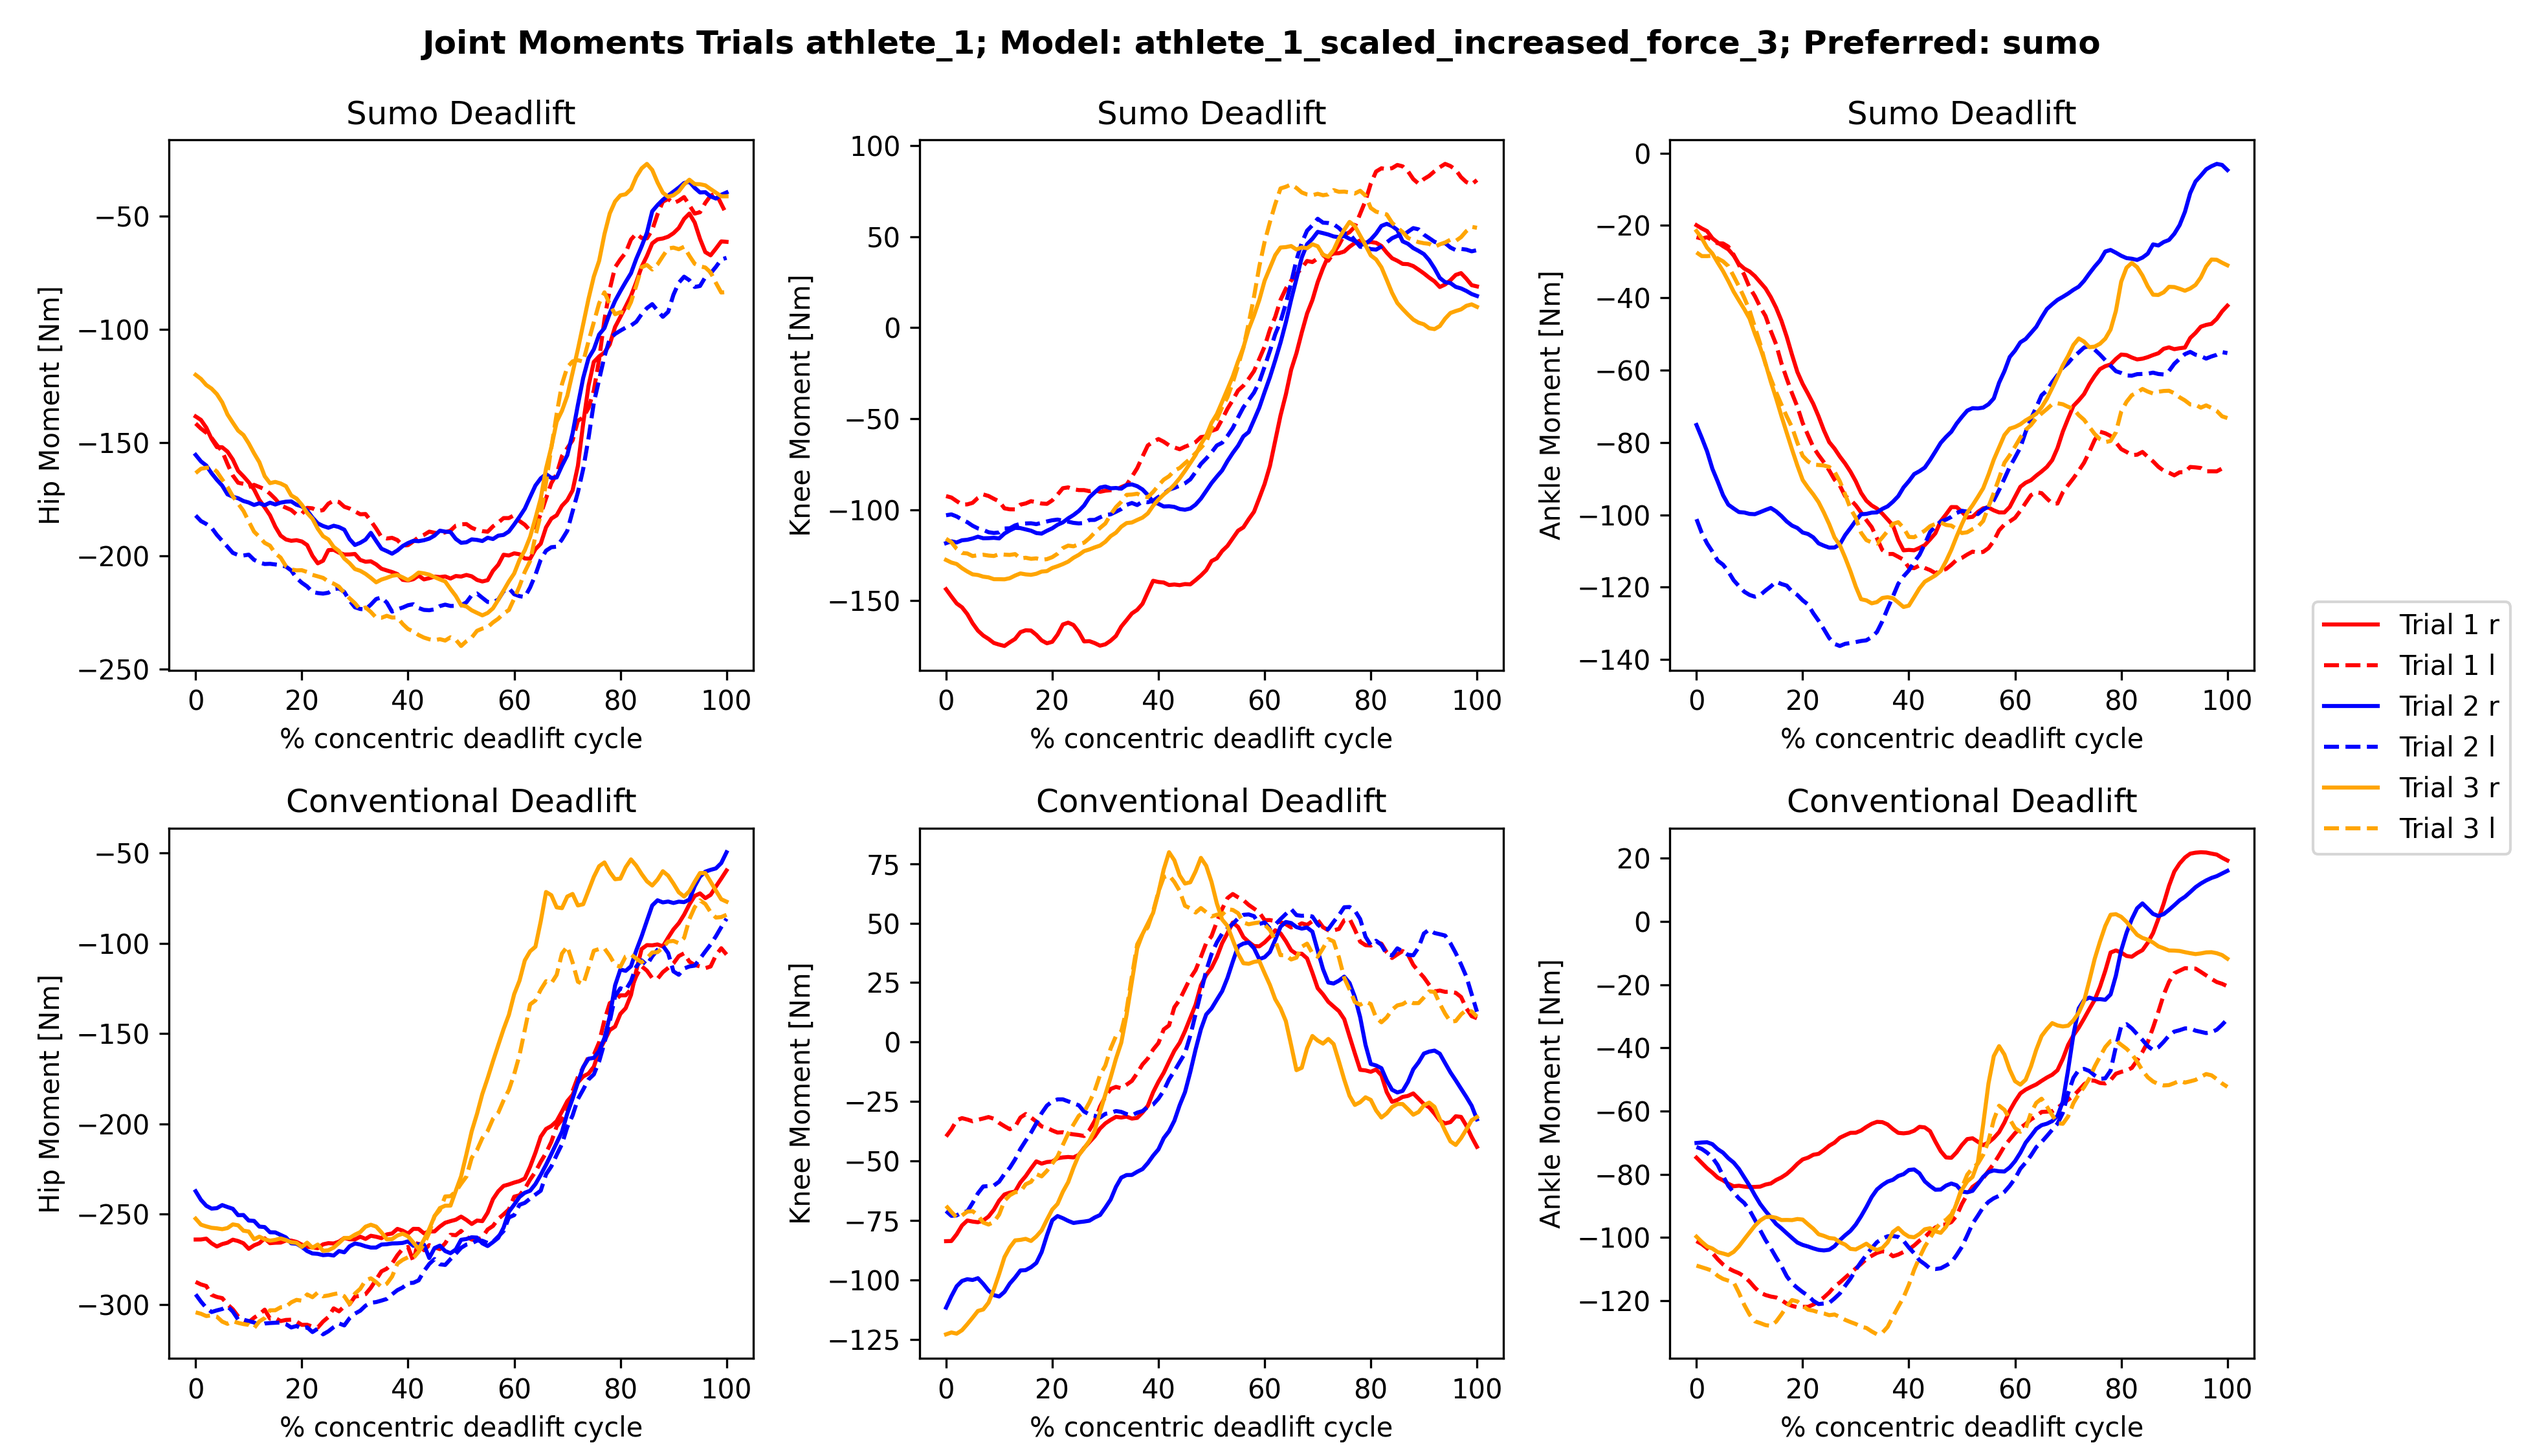
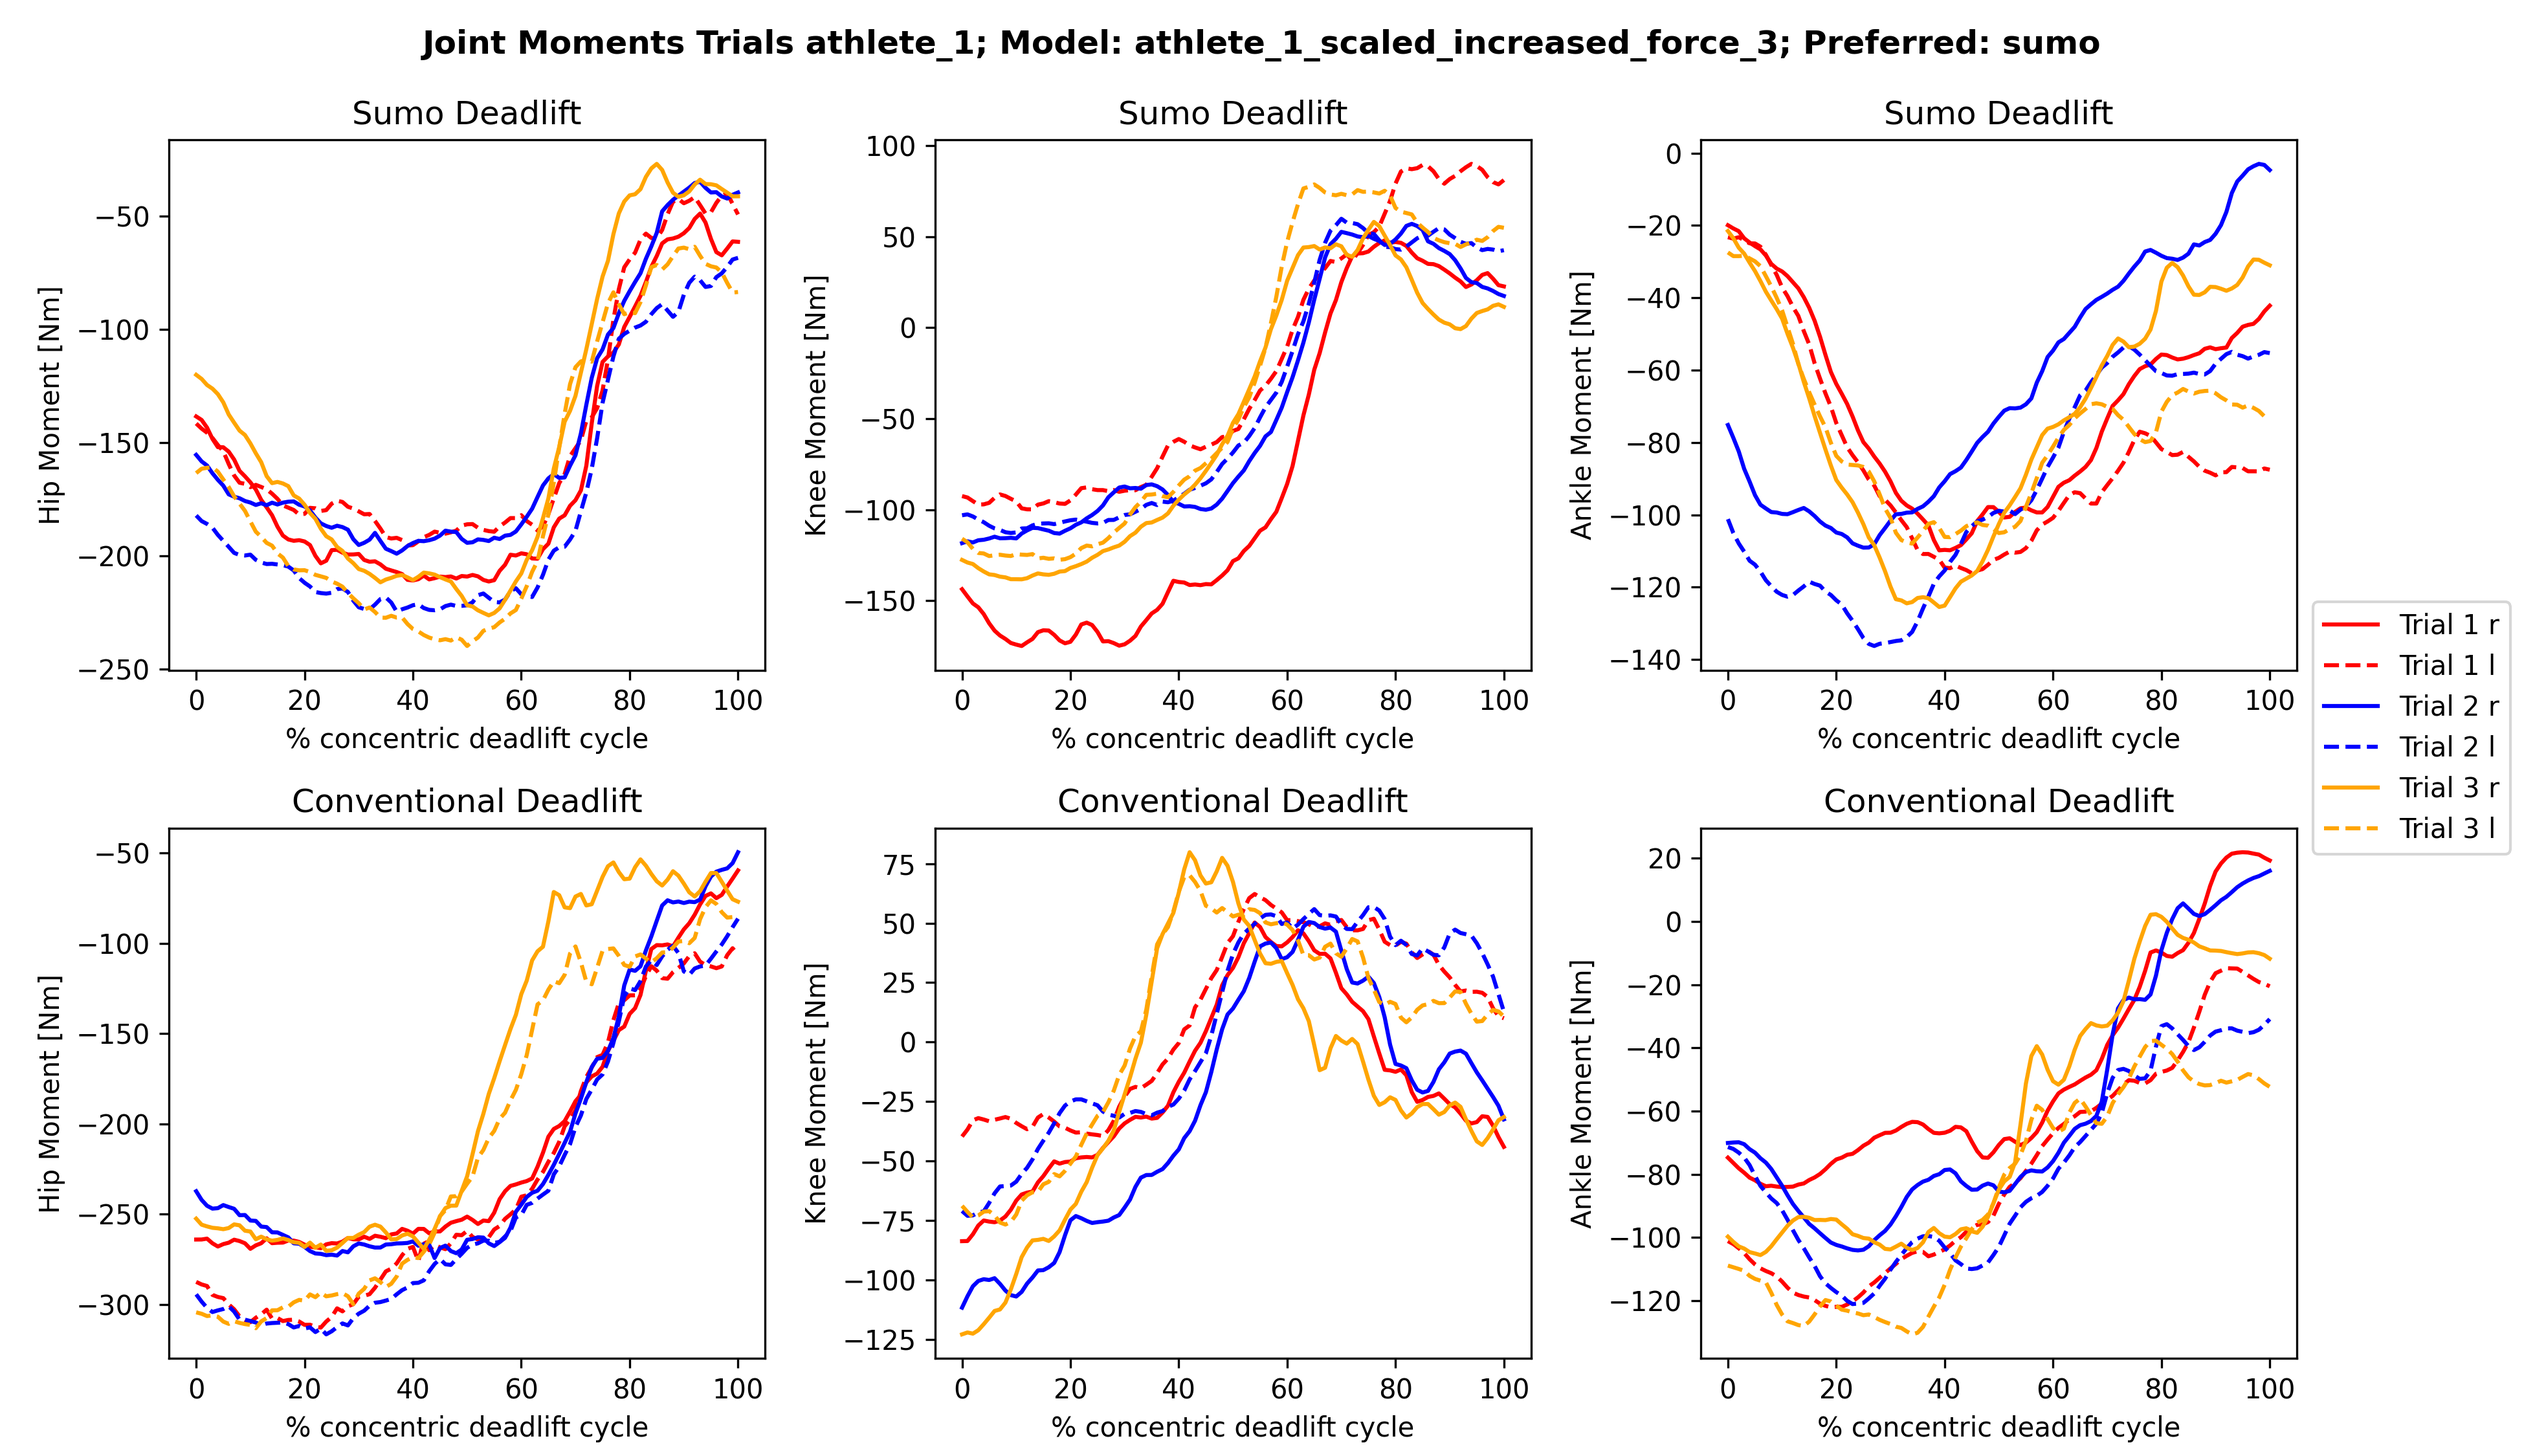
Adjust plot legends

diff --git a/python/src/forcesPlot.py b/python/src/forcesPlot.py
@@ -14,6 +14,7 @@ def run_forces_plot(bool):
     # just for sumo currently avaiable
     if bool:
         try:
+            figure_prefix = "muscle_forces_trials_"
             rows = 6
             cols = 2
             color_trial_0 = "red"
@@ -169,7 +170,14 @@ def run_forces_plot(bool):
             handles, labels = axs[
                 0, 0
             ].get_legend_handles_labels()  # get legend from first plot
-            fig.legend(handles, labels, loc="lower right")
+            fig.legend(handles, labels, loc="center right")
+            fig.set_size_inches(13, 7.5)
+            plt.savefig(
+                "../results/so/" + figure_prefix + active_athlete["name"] + ".png",
+                transparent=None,
+                dpi=300,
+                format="png",
+            )
             plt.show()
 
         except Exception as e:

diff --git a/python/main.py b/python/main.py
@@ -60,8 +60,8 @@ if __name__ == "__main__":
     # run_activations_comparison_from_emg(False)
 
     run_kinematics_plot(False)
-    run_moments_plot(True)
-    run_forces_plot(False)
+    run_moments_plot(False)
+    run_forces_plot(True)
     run_moment_arms_hip_plot(False)
     ########################## MUSCLE FORCES ##############################################
     # run_muscle_force_sum_plot(False)

diff --git a/python/src/momentArmsHipPlot.py b/python/src/momentArmsHipPlot.py
@@ -175,7 +175,7 @@ def run_moment_arms_hip_plot(bool):
             handles, labels = axs[
                 0, 0
             ].get_legend_handles_labels()  # get legend from first plot
-            fig.legend(handles, labels, loc="lower right")
+            fig.legend(handles, labels, loc="center right")
             plt.show()
 
         except Exception as e:
